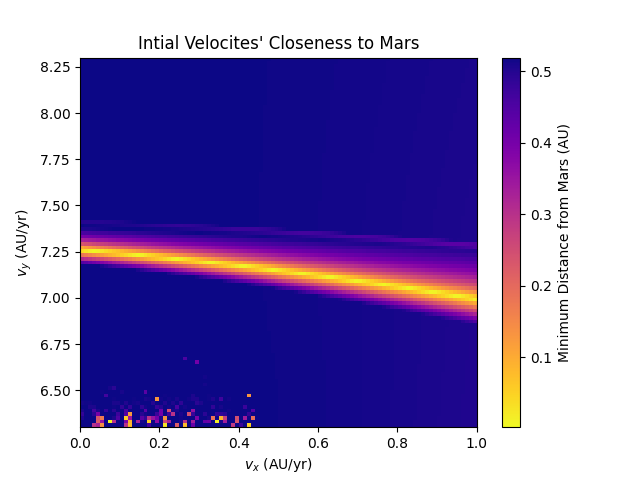
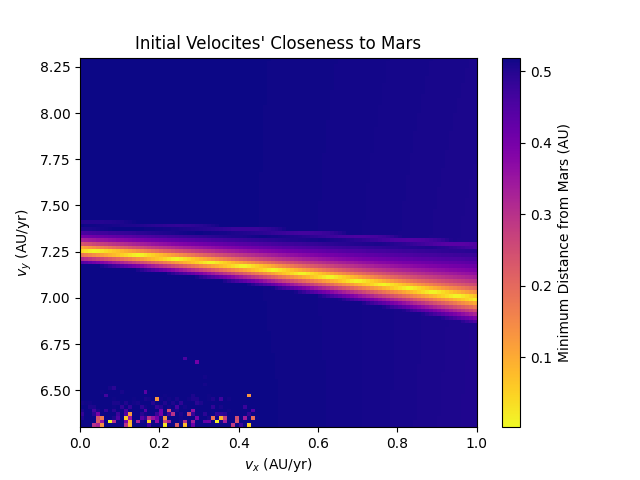
updated heatmap labels

Changed region(s): [[0.1875, 0.0625, 0.6562, 0.125]]

diff --git a/test/experiment3.py b/test/experiment3.py
@@ -12,7 +12,7 @@ def heatmap(system):
 
     # plot heatmap of approaches
     fig, ax = system.plot_heatmap()
-    ax.set_title("Intial Velocites' Closeness to Mars")
+    ax.set_title("Initial Velocites' Closeness to Mars")
     plt.savefig(os.path.join(ROOT, 'figures', 'experiment3_heatmap.png'))
     plt.close()
 
@@ -41,7 +41,7 @@ def gets_close():
     system1.add_satellite_grid(vx_range, vy_range)
     system1.run_simulation()
 
-    #heatmap(system1)
+    heatmap(system1)
     v_within = best_satellites(system1)
 
     return v_within
